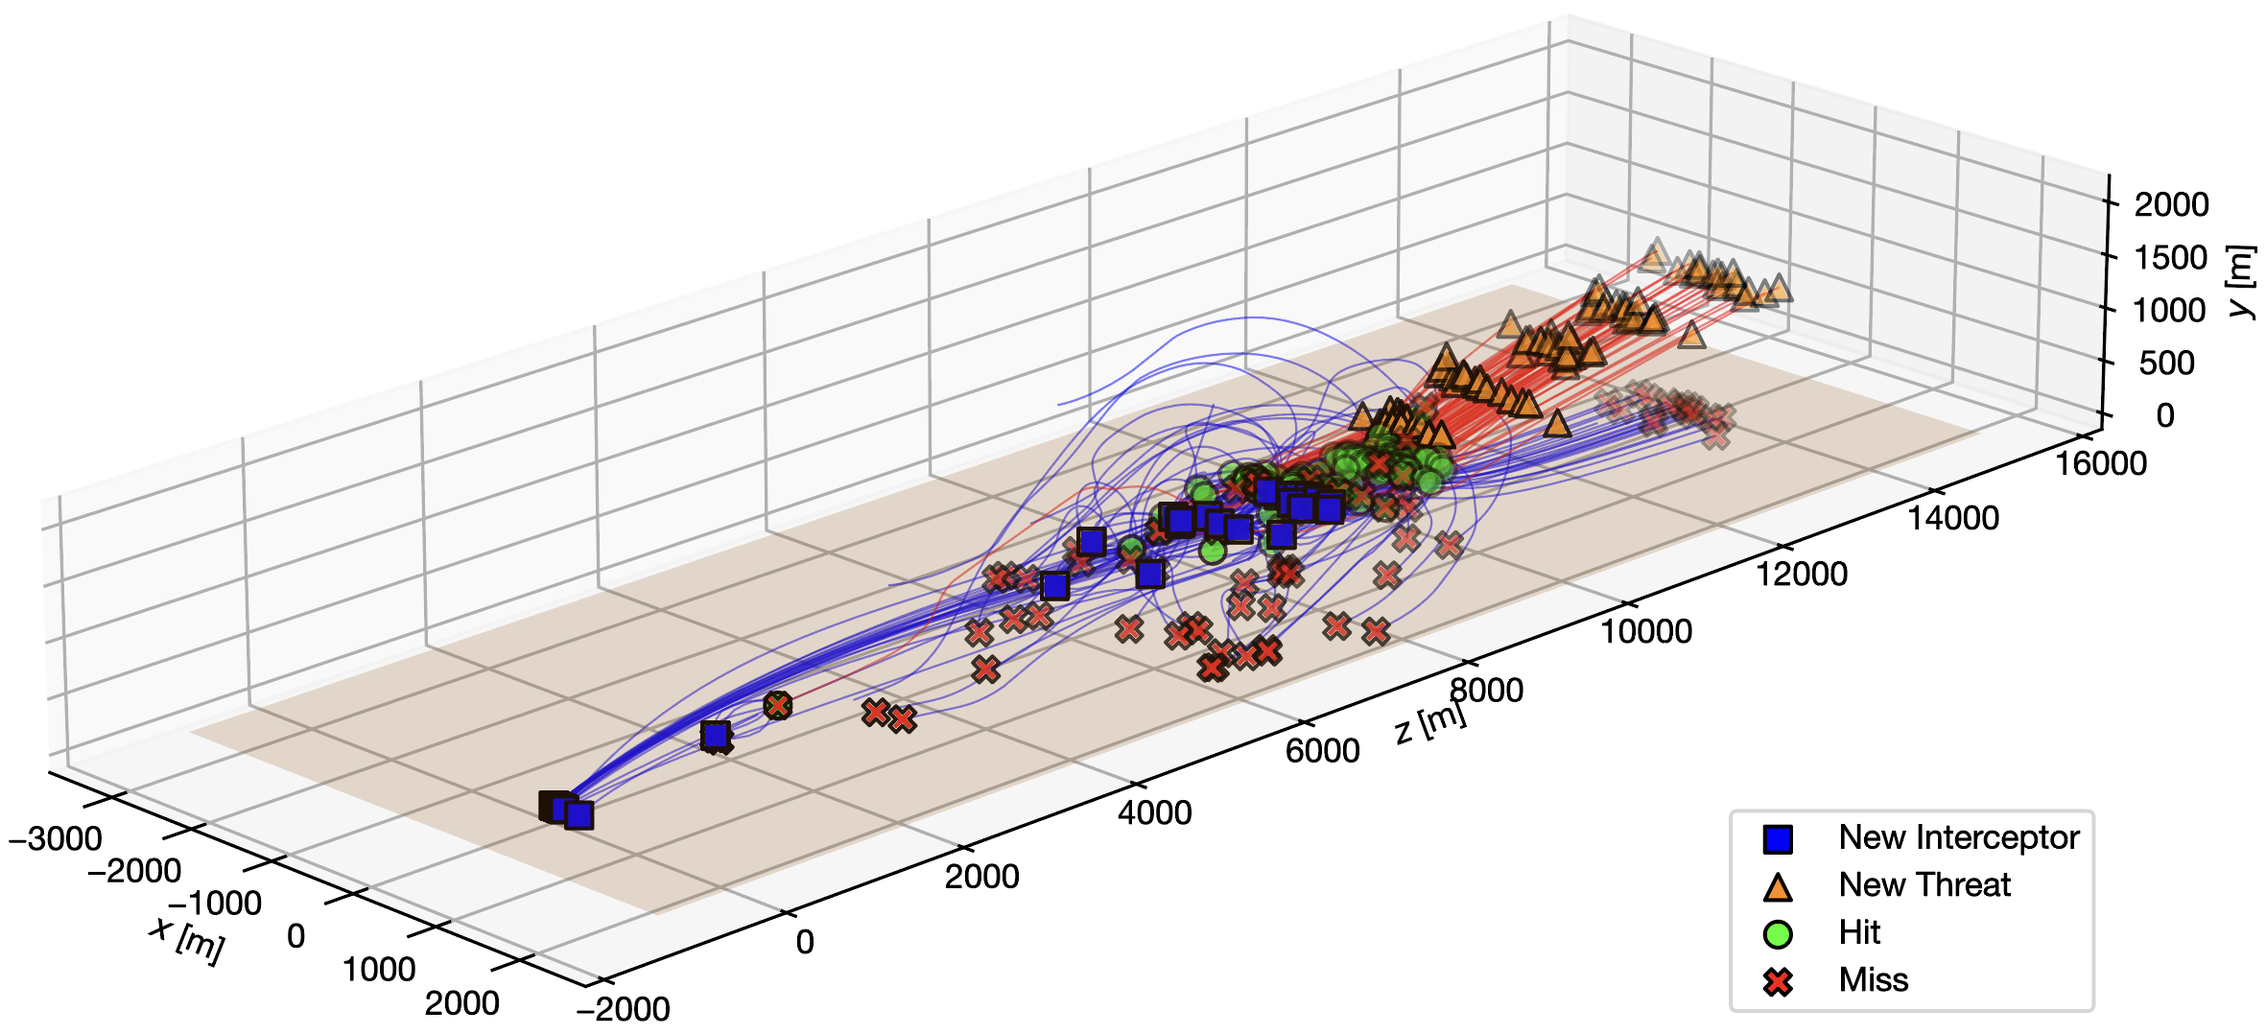
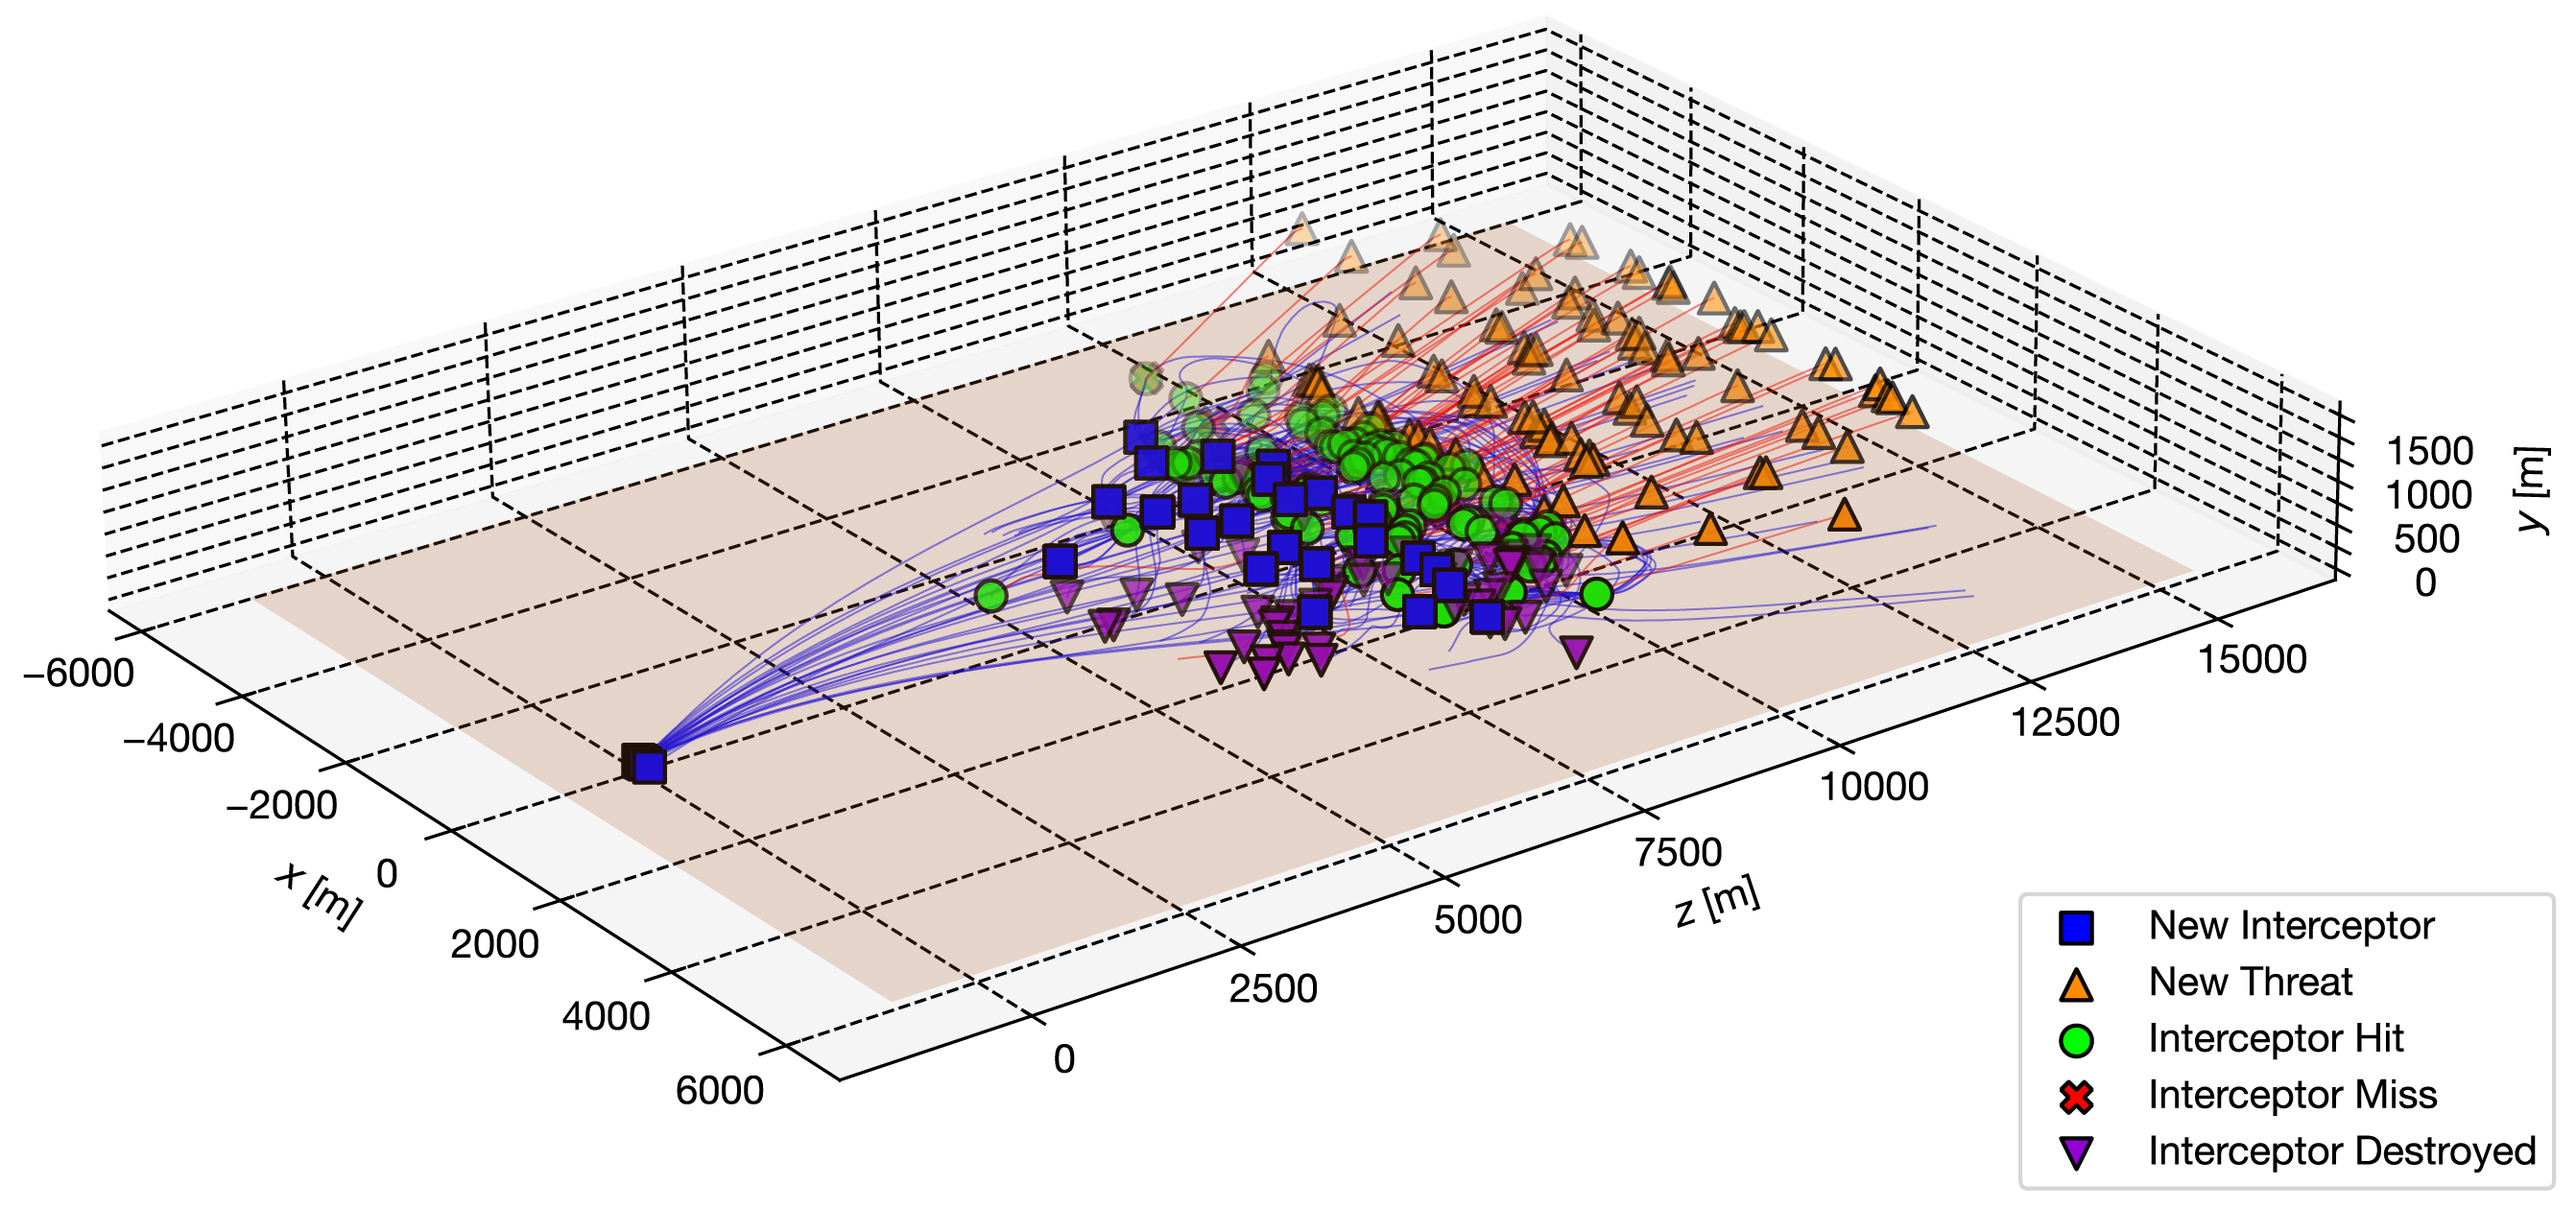
[Logging] Add destroyed agent events (#204)
* Add DESTROYED events

* Fix typo

* Remove unrelated change

* Fix log visualization to visualize destroyed events

diff --git a/Assets/Scripts/Interceptors/InterceptorBase.cs b/Assets/Scripts/Interceptors/InterceptorBase.cs
@@ -5,9 +5,10 @@ using UnityEngine;
 
 // Base implementation of an interceptor.
 public abstract class InterceptorBase : AgentBase, IInterceptor {
-  public event InterceptHitMissEventHandler OnHit;
-  public event InterceptHitMissEventHandler OnMiss;
-  public event InterceptorAssignEventHandler OnAssignSubInterceptor;
+  public event InterceptorEventHandler OnHit;
+  public event InterceptorEventHandler OnMiss;
+  public event InterceptorEventHandler OnDestroyed;
+  public event InterceptorEventHandler OnAssignSubInterceptor;
   public event TargetReassignEventHandler OnReassignTarget;
 
   // Default proportional navigation controller gain.
@@ -134,6 +135,7 @@ public abstract class InterceptorBase : AgentBase, IInterceptor {
     _unassignedTargetsCoroutine =
         StartCoroutine(UnassignedTargetsManager(_unassignedTargetsLaunchPeriod));
     OnMiss += RegisterMiss;
+    OnDestroyed += RegisterDestroyed;
   }
 
   protected override void FixedUpdate() {
@@ -249,8 +251,8 @@ public abstract class InterceptorBase : AgentBase, IInterceptor {
   // The interceptor records a hit only if it collides with a threat and destroys it with the
   // threat's kill probability.
   private void OnTriggerEnter(Collider other) {
-    if (CheckFloorCollision(other)) {
-      OnMiss?.Invoke(this);
+    if (CheckGroundCollision(other)) {
+      OnDestroyed?.Invoke(this);
       Terminate();
     }
 
@@ -274,6 +276,17 @@ public abstract class InterceptorBase : AgentBase, IInterceptor {
   }
 
   private void RegisterMiss(IInterceptor interceptor) {
+    RequestTargetReassignment(interceptor);
+
+    // Request a new target from the parent interceptor.
+    OnAssignSubInterceptor?.Invoke(interceptor);
+  }
+
+  private void RegisterDestroyed(IInterceptor interceptor) {
+    RequestTargetReassignment(interceptor);
+  }
+
+  private void RequestTargetReassignment(IInterceptor interceptor) {
     // Request the parent interceptor to re-assign the target to another interceptor if there are no
     // other pursuers.
     IHierarchical target = interceptor.HierarchicalAgent.Target;

diff --git a/Assets/Scripts/Monitors/SimMonitor.cs b/Assets/Scripts/Monitors/SimMonitor.cs
@@ -11,8 +11,9 @@ public class SimMonitor : MonoBehaviour {
     public const string NewThreat = "NEW_THREAT";
     public const string InterceptorHit = "INTERCEPTOR_HIT";
     public const string InterceptorMiss = "INTERCEPTOR_MISS";
+    public const string InterceptorDestroyed = "INTERCEPTOR_DESTROYED";
     public const string ThreatHit = "THREAT_HIT";
-    public const string ThreatMiss = "THREAT_MISS";
+    public const string ThreatDestroyed = "THREAT_DESTROYED";
   }
 
   [Serializable]
@@ -88,12 +89,13 @@ public class SimMonitor : MonoBehaviour {
     RegisterAgentEvent(interceptor, EventTypes.NewInterceptor);
     interceptor.OnHit += RegisterInterceptorHit;
     interceptor.OnMiss += RegisterInterceptorMiss;
+    interceptor.OnDestroyed += RegisterInterceptorDestroyed;
   }
 
   private void RegisterNewThreat(IThreat threat) {
     RegisterAgentEvent(threat, EventTypes.NewThreat);
     threat.OnHit += RegisterThreatHit;
-    threat.OnMiss += RegisterThreatMiss;
+    threat.OnDestroyed += RegisterThreatDestroyed;
   }
 
   private void RegisterInterceptorHit(IInterceptor interceptor) {
@@ -104,12 +106,16 @@ public class SimMonitor : MonoBehaviour {
     RegisterAgentEvent(interceptor, EventTypes.InterceptorMiss);
   }
 
+  private void RegisterInterceptorDestroyed(IInterceptor interceptor) {
+    RegisterAgentEvent(interceptor, EventTypes.InterceptorDestroyed);
+  }
+
   private void RegisterThreatHit(IThreat threat) {
     RegisterAgentEvent(threat, EventTypes.ThreatHit);
   }
 
-  private void RegisterThreatMiss(IThreat threat) {
-    RegisterAgentEvent(threat, EventTypes.ThreatMiss);
+  private void RegisterThreatDestroyed(IThreat threat) {
+    RegisterAgentEvent(threat, EventTypes.ThreatDestroyed);
   }
 
   private void RegisterAgentEvent(IAgent agent, string eventType) {

diff --git a/Assets/Scripts/Interceptors/IInterceptor.cs b/Assets/Scripts/Interceptors/IInterceptor.cs
@@ -2,20 +2,21 @@
 //
 // Interceptors defend the asset against incoming threats.
 
-public delegate void InterceptHitMissEventHandler(IInterceptor interceptor);
-public delegate void InterceptorAssignEventHandler(IInterceptor interceptor);
+public delegate void InterceptorEventHandler(IInterceptor interceptor);
 public delegate void TargetReassignEventHandler(IHierarchical target);
 
 public interface IInterceptor : IAgent {
   // The OnHit event handler is called when the interceptor successfully intercepts a threat.
-  event InterceptHitMissEventHandler OnHit;
-  // The OnMiss event handler is called when the interceptor is destroyed, e.g., through a
-  // collision, prior to intercepting a threat.
-  event InterceptHitMissEventHandler OnMiss;
+  event InterceptorEventHandler OnHit;
+  // The OnMiss event handler is called when the interceptor misses its target but is not destroyed.
+  event InterceptorEventHandler OnMiss;
+  // The OnDestroyed event handler is called when the interceptor is destroyed prior to intercepting
+  // a threat, e.g., through a ground collision.
+  event InterceptorEventHandler OnDestroyed;
 
   // The OnAssignSubInterceptor event handler is called when a sub-interceptor has no assigned
   // target and should be assigned one.
-  event InterceptorAssignEventHandler OnAssignSubInterceptor;
+  event InterceptorEventHandler OnAssignSubInterceptor;
 
   // The OnReassignTarget event handler is called when a target needs to be re-assigned to another
   // interceptor.

diff --git a/Assets/Scripts/Threats/ThreatBase.cs b/Assets/Scripts/Threats/ThreatBase.cs
@@ -4,8 +4,8 @@ using UnityEngine;
 
 // Base implementation of a threat.
 public abstract class ThreatBase : AgentBase, IThreat {
-  public event ThreatHitMissEventHandler OnHit;
-  public event ThreatHitMissEventHandler OnMiss;
+  public event ThreatEventHandler OnHit;
+  public event ThreatEventHandler OnDestroyed;
 
   // Speed difference threshold for applying forward acceleration.
   private const float _speedErrorThreshold = 1f;
@@ -35,7 +35,7 @@ public abstract class ThreatBase : AgentBase, IThreat {
   }
 
   public void HandleIntercept() {
-    OnMiss?.Invoke(this);
+    OnDestroyed?.Invoke(this);
     Terminate();
   }
 
@@ -142,8 +142,8 @@ public abstract class ThreatBase : AgentBase, IThreat {
   // for a threat to collide with another threat or with a non-pursuing interceptor. Interceptors
   // will handle colliding with a threat.
   private void OnTriggerEnter(Collider other) {
-    if (CheckFloorCollision(other)) {
-      OnMiss?.Invoke(this);
+    if (CheckGroundCollision(other)) {
+      OnDestroyed?.Invoke(this);
       Terminate();
     }
 
@@ -153,7 +153,7 @@ public abstract class ThreatBase : AgentBase, IThreat {
     }
     // Check if the collision is with another threat or with the intended target.
     if (otherAgent is IThreat) {
-      OnMiss?.Invoke(this);
+      OnDestroyed?.Invoke(this);
       Terminate();
     } else if (HierarchicalAgent.Target is HierarchicalAgent targetAgent &&
                otherAgent == targetAgent.Agent) {

diff --git a/Assets/Scripts/Managers/SimManager.cs b/Assets/Scripts/Managers/SimManager.cs
@@ -184,7 +184,7 @@ public class SimManager : MonoBehaviour {
     IInterceptor interceptor = interceptorObject.GetComponent<IInterceptor>();
     interceptor.HierarchicalAgent = new HierarchicalAgent(interceptor);
     interceptor.StaticConfig = staticConfig;
-    interceptor.OnTerminated += (interceptor) => _interceptors.Remove(interceptor);
+    interceptor.OnTerminated += RegisterInterceptorTerminated;
     _interceptors.Add(interceptor);
     ++_numInterceptorsSpawned;
 
@@ -222,7 +222,7 @@ public class SimManager : MonoBehaviour {
     IThreat threat = threatObject.GetComponent<IThreat>();
     threat.HierarchicalAgent = new HierarchicalAgent(threat);
     threat.StaticConfig = staticConfig;
-    threat.OnMiss += RegisterThreatMiss;
+    threat.OnDestroyed += RegisterThreatDestroyed;
     threat.OnTerminated += RegisterThreatTerminated;
     _threats.Add(threat);
     ++_numThreatsSpawned;
@@ -359,7 +359,11 @@ public class SimManager : MonoBehaviour {
     Time.maximumDeltaTime = Time.fixedDeltaTime * 3;
   }
 
-  private void RegisterThreatMiss(IThreat threat) {
+  private void RegisterInterceptorTerminated(IAgent interceptor) {
+    _interceptors.Remove(interceptor);
+  }
+
+  private void RegisterThreatDestroyed(IThreat threat) {
     CostDestroyedThreats += threat.StaticConfig.Cost;
   }
 

diff --git a/Assets/Scripts/Threats/IThreat.cs b/Assets/Scripts/Threats/IThreat.cs
@@ -4,15 +4,15 @@ using System.Collections.Generic;
 //
 // Threats attempt to reach the asset while avoiding the defending interceptors.
 
-public delegate void ThreatHitMissEventHandler(IThreat threat);
+public delegate void ThreatEventHandler(IThreat threat);
 
 public interface IThreat : IAgent {
   // The OnHit event handler is called when the threat reaches its intended target, usually the
   // asset.
-  event ThreatHitMissEventHandler OnHit;
-  // The OnMiss event handler is called when the threat is destroyed prior to reaching its intended
-  // target.
-  event ThreatHitMissEventHandler OnMiss;
+  event ThreatEventHandler OnHit;
+  // The OnDestroyed event handler is called when the threat is destroyed prior to reaching its
+  // intended target, e.g., through a successful intercept or a ground collision.
+  event ThreatEventHandler OnDestroyed;
 
   IAttackBehavior AttackBehavior { get; set; }
   IEvasion Evasion { get; set; }

diff --git a/Tools/scalar_metric.py b/Tools/scalar_metric.py
@@ -82,6 +82,27 @@ class NumMissileInterceptorMisses(ScalarMetric):
             (event_df[Column.EVENT] == EventType.INTERCEPTOR_MISS))
 
 
+class NumMissileInterceptorsDestroyed(ScalarMetric):
+    """A metric for the number of missile interceptors destroyed prior to
+    intercepting the target.
+    """
+
+    @property
+    def name(self) -> str:
+        """Returns the name of the metric."""
+        return "Number of missile interceptors destroyed"
+
+    def emit(self, event_df: pd.DataFrame) -> int:
+        """Emits the metric from the given event log.
+
+        Args:
+            event_df: Dataframe containing the events.
+        """
+        return sum(
+            (event_df[Column.AGENT_TYPE] == AgentType.MISSILE_INTERCEPTOR) &
+            (event_df[Column.EVENT] == EventType.INTERCEPTOR_DESTROYED))
+
+
 class MissileInterceptorHitRate(ScalarMetric):
     """A metric for the hit rate of the missile interceptors."""
 

diff --git a/Tools/visualize_log.py b/Tools/visualize_log.py
@@ -25,10 +25,16 @@ class EventMarker:
 
 # Map from event type to event marker.
 EVENT_TYPE_TO_MARKER = {
-    EventType.NEW_INTERCEPTOR: EventMarker("s", "blue", "New Interceptor"),
-    EventType.NEW_THREAT: EventMarker("^", "darkorange", "New Threat"),
-    EventType.INTERCEPTOR_HIT: EventMarker("o", "lime", "Hit"),
-    EventType.INTERCEPTOR_MISS: EventMarker("X", "red", "Miss"),
+    EventType.NEW_INTERCEPTOR:
+        EventMarker("s", "blue", "New Interceptor"),
+    EventType.NEW_THREAT:
+        EventMarker("^", "darkorange", "New Threat"),
+    EventType.INTERCEPTOR_HIT:
+        EventMarker("o", "lime", "Interceptor Hit"),
+    EventType.INTERCEPTOR_MISS:
+        EventMarker("X", "red", "Interceptor Miss"),
+    EventType.INTERCEPTOR_DESTROYED:
+        EventMarker("v", "darkviolet", "Interceptor Destroyed"),
 }
 
 

diff --git a/Assets/Scripts/Agents/AgentBase.cs b/Assets/Scripts/Agents/AgentBase.cs
@@ -237,8 +237,8 @@ public class AgentBase : MonoBehaviour, IAgent {
     }
   }
 
-  protected bool CheckFloorCollision(Collider other) {
-    // Check if the agent hit the floor with a negative vertical speed.
+  protected bool CheckGroundCollision(Collider other) {
+    // Check if the agent hit the ground with a negative vertical speed.
     return other.gameObject.name == "Floor" && Vector3.Dot(Velocity, Vector3.up) < 0;
   }
 

diff --git a/Tools/process_run.py b/Tools/process_run.py
@@ -22,6 +22,7 @@ SCALAR_METRICS = [
     scalar_metric.NumMissileInterceptors(),
     scalar_metric.NumMissileInterceptorHits(),
     scalar_metric.NumMissileInterceptorMisses(),
+    scalar_metric.NumMissileInterceptorsDestroyed(),
     scalar_metric.MissileInterceptorHitRate(),
     scalar_metric.MissileInterceptorEfficiency(),
     scalar_metric.MinInterceptDistance(),

diff --git a/Tools/constants.py b/Tools/constants.py
@@ -20,8 +20,9 @@ class EventType(StrEnum):
     NEW_THREAT = "NEW_THREAT"
     INTERCEPTOR_HIT = "INTERCEPTOR_HIT"
     INTERCEPTOR_MISS = "INTERCEPTOR_MISS"
+    INTERCEPTOR_DESTROYED = "INTERCEPTOR_DESTROYED"
     THREAT_HIT = "THREAT_HIT"
-    THREAT_MISS = "THREAT_MISS"
+    THREAT_DESTROYED = "THREAT_DESTROYED"
 
 
 class Column(StrEnum):

diff --git a/docs/Simulation_Logging.md b/docs/Simulation_Logging.md
@@ -97,7 +97,7 @@ Key columns include:
 The event log records significant events within the simulation.
 Key columns include:
 - **`Time`**: Simulation time when the event occurred.
-- **`Event`**: Type of event, e.g., `NEW_INTERCEPTOR`, `NEW_THREAT`, `INTERCEPTOR_HIT`, `INTERCEPTOR_MISS`, `THREAT_HIT`, or `THREAT_MISS`.
+- **`Event`**: Type of event, e.g., `NEW_INTERCEPTOR`, `NEW_THREAT`, `INTERCEPTOR_HIT`, `INTERCEPTOR_MISS`, `INTERCEPTOR_DESTROYED`, `THREAT_HIT`, or `THREAT_DESTROYED`.
 - **`AgentType`**: Type of the agent, e.g., `CarrierInterceptor`, `MissileInterceptor`, `FixedWingThreat`, or `RotaryWingThreat`.
 - **`AgentID`**: Unique identifier for each agent, e.g., `Micromissile_Interceptor_6`.
 - **`PositionX`**, **`PositionY`**, **`PositionZ`**: Position where the event occurred.
@@ -133,7 +133,7 @@ Total number of events: 490.
 Event counts:
   NEW_INTERCEPTOR: 170
   NEW_THREAT: 100
-  THREAT_MISS: 100
+  THREAT_DESTROYED: 100
   INTERCEPTOR_HIT: 100
   INTERCEPTOR_MISS: 20
 Total duration of events: 45.72 seconds (from 0.00 to 45.72).
